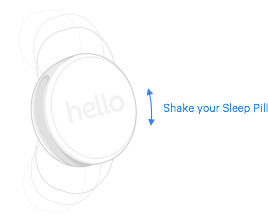
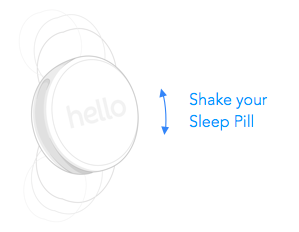
update content mode and assets for pill pairing

diff --git a/SleepModel/HEMPillPairViewController.m b/SleepModel/HEMPillPairViewController.m
@@ -24,6 +24,7 @@
 #import "HEMScrollableView.h"
 #import "HelloStyleKit.h"
 
+static CGFloat const HEMPillPairImageYOffset = 80.0f;
 static CGFloat const kHEMPillPairStartDelay = 2.0f;
 
 @interface HEMPillPairViewController()
@@ -48,6 +49,7 @@ static CGFloat const kHEMPillPairStartDelay = 2.0f;
 - (void)viewDidLoad {
     [super viewDidLoad];
     
+    [self configureButton];
     [self setupContent];
     [self showHelpButton];
     [self setupCancelButton];
@@ -59,6 +61,11 @@ static CGFloat const kHEMPillPairStartDelay = 2.0f;
     [SENAnalytics track:kHEMAnalyticsEventOnBPairPill];
 }
 
+- (void)configureButton {
+    [[self retryButton] setBackgroundColor:[UIColor clearColor]];
+    [[self retryButton] setTitleColor:[HelloStyleKit senseBlueColor] forState:UIControlStateNormal];
+}
+
 - (void)setupContent {
     NSString* subtitle = NSLocalizedString(@"pairing.pill.subtitle", nil);
     NSMutableAttributedString* attrSubtitle
@@ -67,7 +74,8 @@ static CGFloat const kHEMPillPairStartDelay = 2.0f;
     
     [[self contentView] addTitle:NSLocalizedString(@"pairing.pill.title", nil)];
     [[self contentView] addDescription:attrSubtitle];
-    [[self contentView] addImage:[HelloStyleKit shakePill]];
+    [[self contentView] addImage:[HelloStyleKit shakePill]
+                     withYOffset:HEMPillPairImageYOffset];
     
 }
 
